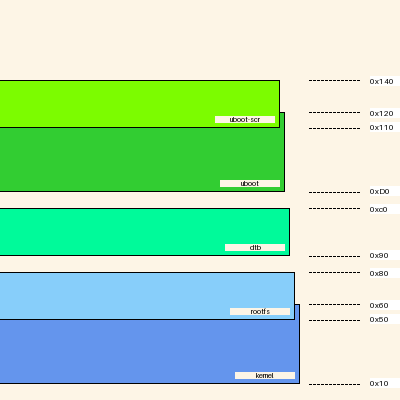
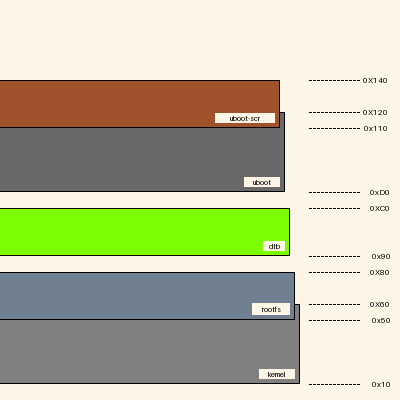
added TextLabel type, used to replace text drawing code elsewhere

diff --git a/mm/types.py b/mm/types.py
@@ -3,6 +3,7 @@ import random
 import PIL.Image
 import PIL.ImageDraw
 import PIL.ImageColor
+import PIL.ImageFont
 from typing import List, Dict
 import logging
 
@@ -31,10 +32,7 @@ class Region():
         """Map of collision regions by name (str) and distance (hex)"""
         self.draw_indent = 0
         """Index counter for incrementally shrinking the drawing indent"""
-        self.txtlbl_bgcolour = "oldlace"
-        """The background colour to use for the region text label"""
-        self.txtlbl_fgcolour = "black"
-        """The foreground colour to use for the region text label"""
+
         self.img: PIL.Image
 
         # both 'lightslategray' and 'lightslategrey' are the same colour
@@ -141,7 +139,7 @@ class Region():
 
 @typeguard.typechecked
 class MemoryRegion(Region):
-    
+
     def create_img(self, img_width: int):
 
         logging.info(self)
@@ -162,25 +160,53 @@ class MemoryRegion(Region):
         )
 
         # draw name text
-        ntext_img_width = 60
-        ntext_img_height = 7
-        ntext_font = PIL.ImageFont.load_default(ntext_img_height)
-        ntext_img = PIL.Image.new("RGB", (ntext_img_width, ntext_img_height), color=self.txtlbl_bgcolour)
-
-        ntext_canvas = PIL.ImageDraw.Draw(ntext_img)
-
-        _, _, ntext_width, ntext_height = ntext_canvas.textbbox(
-            (0, 0), self.name, font=ntext_font)
-
-        ntext_canvas.text(((ntext_img_width-ntext_width)/2,
-                          (ntext_img_height-ntext_height)/2-1),
-                          self.name, fill=self.txtlbl_fgcolour,
-                          font=ntext_font)
-
-        ntext_img = ntext_img.rotate(180)
-        region_img.paste(ntext_img, (5, 5))
+        region_img.paste(TextLabel(text=self.name, font_size=7).img, (5, 5))
 
         self.img = region_img
+
+
+@typeguard.typechecked
+class TextLabel():
+    def __init__(self, text: str, font_size: int):
+        self.text = text
+        """The display label text"""
+
+        self.font = PIL.ImageFont.load_default(font_size)
+        """The font used to display the text"""
+
+        _, top, right, bottom = self.font.getbbox(self.text)
+        """The dimensions required for the text"""
+        
+        self.width = right
+        """The label width"""
+
+        self.height = bottom - top
+        """The label height"""
+
+        self.bgcolour = "oldlace"
+        """The background colour to use for the region text label"""
+
+        self.fgcolour = "black"
+        """The foreground colour to use for the region text label"""
+
+        self.img: PIL.Image
+        """The image object. Use this with PIL.Image.paste()"""
+
+        self._create_img()
+
+    def _create_img(self):
+
+        # make the image bigger than the actual text bbox so there is plenty of space for the text
+        self.img = PIL.Image.new("RGB", (self.width * 2, self.height * 2), color=self.bgcolour)
+        canvas = PIL.ImageDraw.Draw(self.img)
+        # center the text in the oversized image, bias the y-pos by 1/5
+        canvas.text(xy=(self.width / 2, (self.height / 2 - (self.height / 5))),
+                    text=self.text,
+                    fill=self.fgcolour,
+                    font=self.font)
+
+        # the final diagram image will be flipped so start with the text upside down
+        self.img = self.img.rotate(180)
 
 
 @typeguard.typechecked

diff --git a/mm/diagram.py b/mm/diagram.py
@@ -67,33 +67,26 @@ class MemoryMap:
             region.create_img(img_width=MemoryMap.width - self._legend_width)
             if not region.img:
                 continue
+            img_main.paste(region.img, (self._legend_width + region.draw_indent, region.origin), region.img)
 
-            # Address Text
-            addr_text_font = PIL.ImageFont.load_default(8)
-            # add text for the region origin
-            origin_text_img = PIL.Image.new("RGB", (30, 10), color=(255, 255, 255))
-            origin_text_canvas = PIL.ImageDraw.Draw(origin_text_img)
-            origin_text_canvas.text((0, 0), region._origin, fill="black", font=addr_text_font)
-            origin_text_img = origin_text_img.rotate(180)
-            # add text for the region end
-            endaddr = region.origin + region.size
-            endaddr_text_img = PIL.Image.new("RGB", (30, 10), color=(255, 255, 255))
-            endaddr_text_canvas = PIL.ImageDraw.Draw(endaddr_text_img)
-            endaddr_text_canvas.text((0, 0), hex(endaddr), fill="black", font=addr_text_font)
-            endaddr_text_img = endaddr_text_img.rotate(180)
+            # Origin Address Text
+            origin_text_label = mm.types.TextLabel(region._origin, 8)
+            img_main.paste(origin_text_label.img, (0, region.origin - origin_text_label.height + 1))
+
+            # Region End Address Text
+            end_addr_val = region.origin + region.size
+            end_addr_text_label = mm.types.TextLabel(hex(end_addr_val).upper(), 8)
+            img_main.paste(end_addr_text_label.img, (0, end_addr_val - end_addr_text_label.height + 1))
 
             line_width = 1
             line_canvas = PIL.ImageDraw.Draw(img_main)
-            for x in range(40, 90, 4):
-                line_canvas.line((x, endaddr - line_width, x+2, endaddr - line_width), fill="black", width=line_width)
-                line_canvas.line((x, region.origin - line_width, x+2, region.origin - line_width), fill="black", width=1)
-            
-            # paste all the layers onto the main image
-            img_main.paste(region.img, (self._legend_width + region.draw_indent, region.origin), region.img)
-            img_main.paste(endaddr_text_img, (0, endaddr - 6))
-            img_main.paste(origin_text_img, (0, region.origin - 4))
+            dash_gap = 4
+            dash_len = dash_gap / 2
+            for x in range(40, 90, dash_gap):
+                line_canvas.line((x, end_addr_val - line_width, x + dash_len, end_addr_val - line_width), fill="black", width=line_width)
+                line_canvas.line((x, region.origin - line_width, x + dash_len, region.origin - line_width), fill="black", width=1)
 
-        # rotate so the origin is at the bottom
+        # rotate the entire diagram so the origin is at the bottom
         img_main = img_main.rotate(180)
 
         # output image file

diff --git a/doc/example/report.md b/doc/example/report.md
@@ -1,8 +1,8 @@
 ![memory map diagram](report.png)
 |name|origin|size|remaining|collisions
 |:-|:-|:-|:-|:-|
-|<span style='color:cornflowerblue'>kernel</span>|0x10|0x50|-0x10|{'rootfs': '0x50'}|
-|<span style='color:limegreen'>uboot</span>|0xD0|0x50|-0x10|{'uboot-scr': '0x110'}|
-|<span style='color:lightskyblue'>rootfs</span>|0x50|0x30|0x10|{'kernel': '0x50'}|
-|<span style='color:mediumspringgreen'>dtb</span>|0x90|0x30|0x10|{}|
-|<span style='color:lawngreen'>uboot-scr</span>|0x110|0x30|0x50|{'uboot': '0x110'}|
+|<span style='color:gray'>kernel</span>|0x10|0x50|-0x10|{'rootfs': '0x50'}|
+|<span style='color:dimgray'>uboot</span>|0xD0|0x50|-0x10|{'uboot-scr': '0x110'}|
+|<span style='color:slategrey'>rootfs</span>|0x50|0x30|0x10|{'kernel': '0x50'}|
+|<span style='color:lawngreen'>dtb</span>|0x90|0x30|0x10|{}|
+|<span style='color:sienna'>uboot-scr</span>|0x110|0x30|0x50|{'uboot': '0x110'}|
